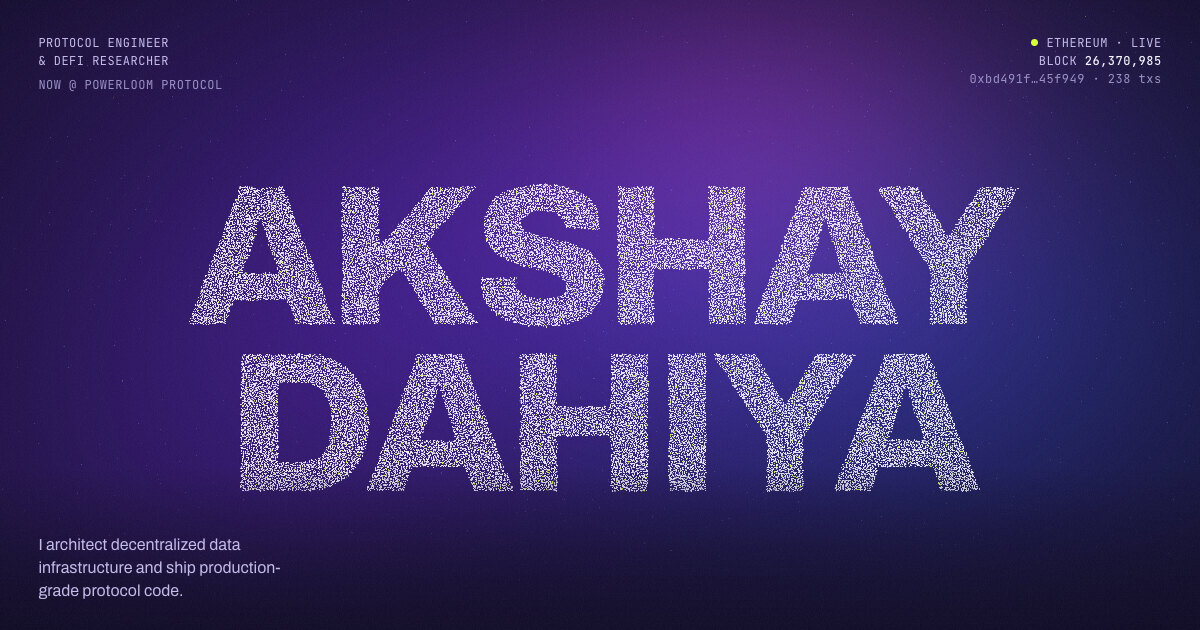
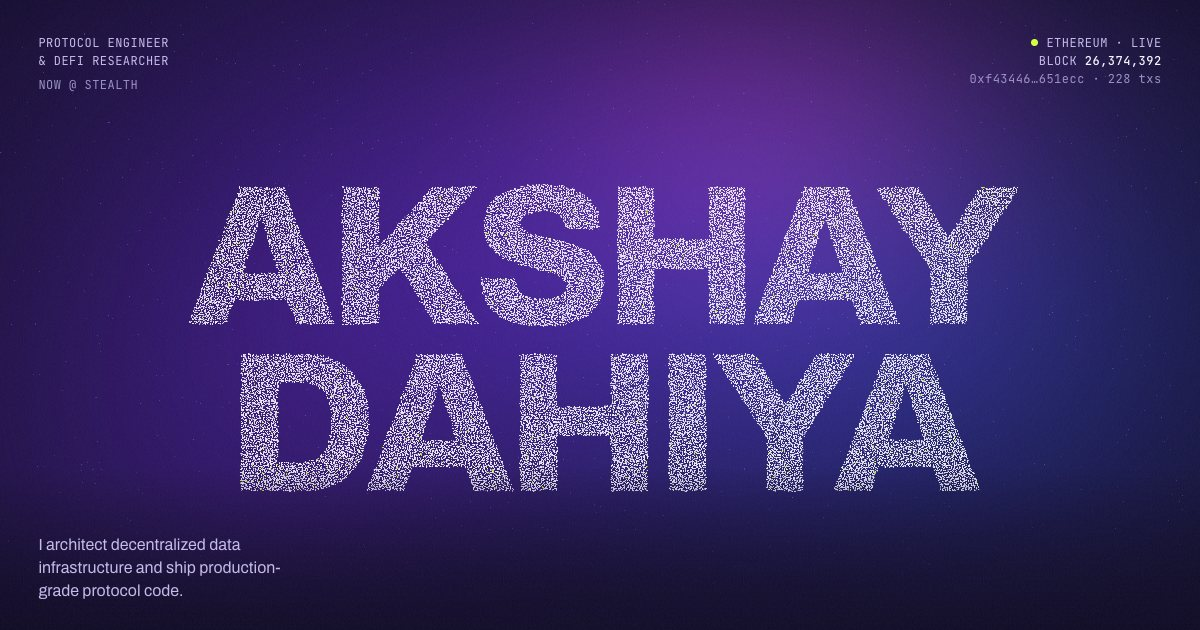
fix: show stealth as current role, simplify ribbon, uncrop previews
- Hero, timeline and share image now say "Now @ Stealth". Powerloom runs
  Dec 2022 to Jan 2026, and a new head block marks the stealth work
- Drop the lime ribbon after the stack section; one straight tape
  remains, evenly spaced between sections
- Writing hover previews size to each image's aspect ratio instead of
  cropping to 4:3, show true colours, sit beside the cursor and stay
  on screen
- Verify toast counts blocks instead of hard-coding 10/10

diff --git a/_includes/css/site.scss b/_includes/css/site.scss
@@ -395,9 +395,11 @@ html.gl .hero__name { visibility: hidden; }
 .block__toggle:hover { border-color: var(--fg); }
 .block.is-open .block__toggle { transform: rotate(135deg); border-color: var(--accent); color: var(--accent); }
 .block--genesis .block__title { font-family: var(--font-serif); font-style: italic; font-weight: 400; letter-spacing: -0.01em; cursor: default; }
+.block--now .block__title { cursor: default; }
+.block--now.is-lit .block__node::after { content: ""; position: absolute; inset: -5px; border: 1px solid var(--accent); animation: beat 2.4s var(--ease-out) infinite; }
 
 /* ---------- Stack ---------- */
-.stack { --cis: 2000px; }
+.stack { --cis: 2000px; padding-bottom: 0; }
 .caps { list-style: none; border-top: 1px solid var(--line); }
 .cap { position: relative; isolation: isolate; display: grid; grid-template-columns: 48px minmax(0, 5fr) minmax(0, 7fr); column-gap: var(--gutter); row-gap: 10px; align-items: baseline; padding: clamp(20px, 3vh, 30px) 0; border-bottom: 1px solid var(--line); }
 .cap::before { content: ""; position: absolute; inset: 0 calc(var(--gutter) * -1); z-index: -1; background: var(--surface); transform: scaleY(0); transform-origin: 50% 100%; transition: transform 0.6s var(--ease-out); }
@@ -409,16 +411,12 @@ html.gl .hero__name { visibility: hidden; }
 .cap__items { color: var(--fg-2); line-height: 1.75; overflow-wrap: anywhere; transition: color 0.4s; }
 .cap__items i { margin: 0 0.2em; font-style: normal; color: var(--fg-3); opacity: 0.7; }
 .cap:hover .cap__items { color: var(--fg); }
-.marquee { position: relative; display: grid; margin-top: clamp(100px, 16vh, 180px); padding-block: clamp(40px, 7vw, 110px); overflow: hidden; }
-.marquee__row { position: relative; width: 108%; margin-left: -4%; overflow: hidden; padding-block: clamp(8px, 1.4vw, 18px); }
-.marquee__row:first-child { z-index: 2; background: var(--accent); color: var(--accent-ink); transform: rotate(-2.4deg); box-shadow: 0 30px 70px -30px rgba(var(--accent-rgb), 0.55); }
-.marquee__row:last-child { z-index: 1; margin-top: clamp(-34px, -2.4vw, -12px); background: var(--surface-2); border-block: 1px solid var(--line-2); transform: rotate(1.8deg); }
+.marquee { position: relative; margin-top: clamp(100px, 16vh, 180px); overflow: hidden; background: var(--surface-2); border-block: 1px solid var(--line-2); }
+.marquee__row { position: relative; overflow: hidden; padding-block: clamp(10px, 1.6vw, 22px); }
 .marquee__track { display: inline-flex; align-items: center; white-space: nowrap; will-change: transform; }
 .marquee__item { padding: 0 0.3em; font-size: clamp(2rem, 5.8vw, 6rem); font-weight: 800; line-height: 1.02; letter-spacing: -0.045em; text-transform: uppercase; font-stretch: 112%; }
 .marquee__item--o { color: transparent; -webkit-text-stroke: 1px rgba(var(--ink-rgb), 0.45); }
-.marquee__row:first-child .marquee__item--o { -webkit-text-stroke: 1.5px rgba(18, 12, 48, 0.7); }
 .marquee__star { color: var(--accent); font-size: clamp(1rem, 2vw, 2rem); }
-.marquee__row:first-child .marquee__star { color: var(--accent-ink); }
 
 /* ---------- Proof ---------- */
 .proof { --cis: 1400px; }
@@ -482,18 +480,12 @@ html.gl .hero__name { visibility: hidden; }
   .posts:hover .post-row a:hover { color: var(--fg); padding-left: 14px; }
   .post-row a:hover .post-row__arrow svg { transform: rotate(45deg); color: var(--accent); }
 }
-.preview {
-  --pw: clamp(240px, 22vw, 340px);
-  position: fixed; top: 0; left: 0; z-index: 45; width: var(--pw); aspect-ratio: 4 / 3;
-  margin: calc(var(--pw) * -0.375) 0 0 calc(var(--pw) * -0.5);
-  opacity: 0; visibility: hidden; pointer-events: none;
-  transition: opacity 0.45s var(--ease-out), visibility 0s 0.45s, scale 0.6s var(--ease-out);
-  scale: 0.7;
-}
-.preview.is-on { opacity: 1; visibility: visible; scale: 1; transition: opacity 0.45s var(--ease-out), visibility 0s, scale 0.6s var(--ease-out); }
-.preview__inner { position: relative; width: 100%; height: 100%; overflow: hidden; border-radius: 8px; background: #f5f2ff; box-shadow: var(--shadow); }
-.preview__inner img { width: 100%; height: 100%; object-fit: cover; filter: grayscale(1) contrast(1.15); }
-.preview__inner::after { content: ""; position: absolute; inset: 0; background: var(--accent); mix-blend-mode: multiply; }
+/* JS positions the zero-size .preview at the card's centre and sizes the card to each image's aspect ratio. */
+.preview { position: fixed; top: 0; left: 0; z-index: 45; width: 0; height: 0; visibility: hidden; pointer-events: none; transition: visibility 0s 0.45s; }
+.preview.is-on { visibility: visible; transition: visibility 0s; }
+.preview__inner { position: absolute; top: 0; left: 0; width: 320px; height: 200px; translate: -50% -50%; overflow: hidden; border-radius: 10px; background: var(--surface); box-shadow: 0 0 0 1px var(--line-2), var(--shadow); opacity: 0; scale: 0.86; transition: opacity 0.4s var(--ease-out), scale 0.6s var(--ease-out); }
+.preview.is-on .preview__inner { opacity: 1; scale: 1; transition: opacity 0.4s var(--ease-out), scale 0.6s var(--ease-out), width 0.5s var(--ease-out), height 0.5s var(--ease-out); }
+.preview__inner img { display: block; width: 100%; height: 100%; object-fit: cover; }
 
 /* ---------- Shelf ---------- */
 .shelf { --k: 1.22; --cis: 1300px; }

diff --git a/index.html b/index.html
@@ -16,7 +16,6 @@ viz: true
   "alternateName": "xadahiya",
   "url": "https://xadahiya.me",
   "jobTitle": "Protocol Engineer & DeFi Researcher",
-  "worksFor": { "@type": "Organization", "name": "Powerloom Protocol" },
   "alumniOf": { "@type": "CollegeOrUniversity", "name": "Georgia Institute of Technology" },
   "email": "mailto:xadahiya@gmail.com",
   "sameAs": ["https://github.com/xadahiya", "https://twitter.com/xadahiya", "https://www.linkedin.com/in/xadahiya"]
@@ -30,7 +29,7 @@ viz: true
 
   <div class="hero__grid wrap">
     <h1 id="hero-title" class="sr-only">Akshay Dahiya — Protocol Engineer &amp; DeFi Researcher</h1>
-    <p class="hero__role mono"><span class="hero__in">Protocol Engineer</span><span class="hero__in">&amp; DeFi Researcher</span><span class="hero__in hero__now">Now <b>@</b> Powerloom Protocol</span></p>
+    <p class="hero__role mono"><span class="hero__in">Protocol Engineer</span><span class="hero__in">&amp; DeFi Researcher</span><span class="hero__in hero__now">Now <b>@</b> Stealth</span></p>
 
     <a class="hero__chain mono" href="https://etherscan.io/" target="_blank" rel="noopener" data-block-link data-cursor="Etherscan">
       <span class="hero__in"><span class="live-dot" data-live-dot></span><span data-block-status>Ethereum mainnet</span></span>
@@ -111,7 +110,7 @@ viz: true
       <article class="sys" style="--i:0">
         <div class="sys__card">
           <div class="sys__body">
-            <p class="sys__meta mono"><span class="sys__idx">01 / 06</span><span>Powerloom Protocol</span><span>2022 → Now</span></p>
+            <p class="sys__meta mono"><span class="sys__idx">01 / 06</span><span>Powerloom Protocol</span><span>2022 → 2026</span></p>
             <h3 class="sys__title">Decentralized data, <em>at consensus</em></h3>
             <p class="sys__lede">Co-designed the protocol's evolution from V0 → V1 → V2 → DSV: snapshotter nodes independently observe chain state, agree on it, and finalize verifiable data for onchain apps. I authored the Snapshotter Lite and Full node contracts and backend, designed $POWER tokenomics and dynamic-tax staking, and shipped mainnets for Powerloom and Onchain Points.</p>
             <dl class="sys__facts">
@@ -249,9 +248,22 @@ viz: true
     </header>
 
     <ol class="blocks" data-blocks>
-      <li class="block" data-block data-n="009" data-span="Dec 2022 — Now">
+      <li class="block block--now" data-block data-n="010" data-span="2026 — Now">
         <div class="block__rail" aria-hidden="true"><span class="block__node"></span></div>
-        <div class="block__when mono"><span class="block__num">#009</span><span>Dec 2022 — Now</span></div>
+        <div class="block__when mono"><span class="block__num">#010</span><span>2026 — Now</span></div>
+        <div class="block__what">
+          <h3 class="block__title">Building something new</h3>
+          <p class="block__org">Stealth startup</p>
+          <p class="block__gist">Heads down. More soon.</p>
+        </div>
+        <div class="block__side">
+          <p class="block__hash mono"><span>hash</span><code data-hash>…</code><span>prev</span><code data-prev>…</code></p>
+        </div>
+      </li>
+
+      <li class="block" data-block data-n="009" data-span="Dec 2022 — Jan 2026">
+        <div class="block__rail" aria-hidden="true"><span class="block__node"></span></div>
+        <div class="block__when mono"><span class="block__num">#009</span><span>Dec 2022 — Jan 2026</span></div>
         <div class="block__what">
           <h3 class="block__title">Lead Protocol Engineer &amp; DeFi Researcher</h3>
           <p class="block__org">Powerloom Protocol</p>
@@ -463,12 +475,8 @@ viz: true
 
   <div class="marquee" aria-hidden="true" data-marquee>
     <div class="marquee__row" data-dir="-1"><div class="marquee__track">
-      {% assign mq1 = "Solidity,EIP-712,Tokenomics,IPFS proofs,Consensus,Rust,Foundry,Sequencers,Agentic AI,Staking" | split: "," %}
-      {% for k in (1..2) %}{% for w in mq1 %}<span class="marquee__item{% cycle '', ' marquee__item--o' %}">{{ w }}</span><span class="marquee__star">✦</span>{% endfor %}{% endfor %}
-    </div></div>
-    <div class="marquee__row" data-dir="1"><div class="marquee__track">
-      {% assign mq2 = "Python,Web3.py,Gasless,Snapshotters,PyTorch,Upgradeable proxies,Game theory,Redis,Sybil resistance,Airdrops" | split: "," %}
-      {% for k in (1..2) %}{% for w in mq2 %}<span class="marquee__item{% cycle ' marquee__item--o', '' %}">{{ w }}</span><span class="marquee__star">✦</span>{% endfor %}{% endfor %}
+      {% assign mq = "Solidity,EIP-712,Tokenomics,Rust,Consensus,Foundry,Python,IPFS proofs,Snapshotters,Gasless,Sequencers,Sybil resistance,Agentic AI,Game theory" | split: "," %}
+      {% for k in (1..2) %}{% for w in mq %}<span class="marquee__item{% cycle '', ' marquee__item--o' %}">{{ w }}</span><span class="marquee__star">✦</span>{% endfor %}{% endfor %}
     </div></div>
   </div>
 </section>

diff --git a/assets/js/site.js b/assets/js/site.js
@@ -621,7 +621,7 @@
         if (i >= chain.length) {
           label.textContent = ok ? 'Chain valid ✓' : 'Mismatch ✗';
           vb.classList.add('is-done');
-          toast(ok ? '10/10 blocks verified — SHA-256 chain intact' : 'Hash mismatch detected');
+          toast(ok ? chain.length + '/' + chain.length + ' blocks verified — SHA-256 chain intact' : 'Hash mismatch detected');
           setTimeout(function () { vb.disabled = false; }, 800);
           return;
         }
@@ -753,9 +753,33 @@
   function initPreview() {
     var list = $('[data-posts]'), pv = $('[data-preview-el]');
     if (!list || !pv || !fine || reduced) return;
-    var img = $('[data-preview-img]', pv), links = $$('a[data-preview]', list);
-    whenNear(list, function () { links.forEach(function (a) { if (a.dataset.preview) { var im = new Image(); im.src = a.dataset.preview; } }); }, '100% 0px');
-    var st = { x: 0, y: 0, tx: 0, ty: 0, r: 0, tr: 0, run: false, lastX: 0 };
+    var card = $('.preview__inner', pv), img = $('[data-preview-img]', pv), links = $$('a[data-preview]', list), cur = null;
+    // Preload thumbnails and remember each one's shape, so the card matches the image instead of cropping it.
+    whenNear(list, function () {
+      links.forEach(function (a) {
+        if (!a.dataset.preview) return;
+        var im = new Image();
+        im.onload = function () { a._ar = im.naturalWidth / im.naturalHeight; };
+        im.onerror = function () { a._bad = true; };
+        im.src = a.dataset.preview;
+      });
+    }, '100% 0px');
+    var st = { x: 0, y: 0, tx: 0, ty: 0, r: 0, tr: 0, run: false, lastX: 0, mx: 0, my: 0, w: 0, h: 0, side: 1 };
+    var size = function (ar) {
+      var max = clamp(window.innerWidth * 0.24, 260, 380);
+      ar = ar || 1.6;
+      st.w = Math.min(max, max * 0.72 * ar); st.h = st.w / ar;
+      card.style.width = st.w.toFixed(1) + 'px'; card.style.height = st.h.toFixed(1) + 'px';
+    };
+    // Park the card beside the cursor so the title stays readable; flip sides near an edge and stay on screen.
+    var place = function (fresh) {
+      var vw = window.innerWidth, vh = window.innerHeight, room = st.w + 44;
+      if (fresh) st.side = st.mx + room <= vw ? 1 : -1;
+      else if (st.side > 0 && st.mx + room > vw) st.side = -1;
+      else if (st.side < 0 && st.mx - room < 0) st.side = 1;
+      st.tx = st.mx + st.side * (28 + st.w / 2);
+      st.ty = clamp(st.my, 16 + st.h / 2, vh - 16 - st.h / 2);
+    };
     onTick(function (t, dt) {
       if (!st.run) return;
       var k = 1 - Math.pow(0.0009, dt);
@@ -764,18 +788,28 @@
       if (!pv.classList.contains('is-on') && Math.abs(st.tx - st.x) < 0.5 && Math.abs(st.r) < 0.05) st.run = false;
     });
     list.addEventListener('pointermove', function (e) {
-      st.tx = e.clientX; st.ty = e.clientY; st.tr = clamp((e.clientX - st.lastX) * 0.5, -9, 9); st.lastX = e.clientX; st.run = true;
+      st.mx = e.clientX; st.my = e.clientY; place(false);
+      st.tr = clamp((e.clientX - st.lastX) * 0.5, -9, 9); st.lastX = e.clientX; st.run = true;
     });
+    img.addEventListener('load', function () {
+      if (!cur || cur._ar) return;
+      cur._ar = img.naturalWidth / img.naturalHeight; size(cur._ar); place(false);
+    });
+    img.addEventListener('error', function () { if (cur) cur._bad = true; pv.classList.remove('is-on'); });
     links.forEach(function (a) {
       a.addEventListener('pointerenter', function (e) {
         var src = a.dataset.preview;
-        if (!src) return;
+        if (!src || a._bad) { cur = null; pv.classList.remove('is-on'); return; }
+        var fresh = !pv.classList.contains('is-on');
+        cur = a;
         if (img.getAttribute('src') !== src) img.src = src;
-        if (!pv.classList.contains('is-on')) { st.x = st.tx = e.clientX; st.y = st.ty = e.clientY; st.lastX = e.clientX; }
+        size(a._ar);
+        st.mx = e.clientX; st.my = e.clientY; place(fresh);
+        if (fresh) { st.x = st.tx; st.y = st.ty; st.r = st.tr = 0; st.lastX = e.clientX; void card.offsetWidth; }
         pv.classList.add('is-on'); st.run = true;
       });
     });
-    list.addEventListener('pointerleave', function () { pv.classList.remove('is-on'); });
+    list.addEventListener('pointerleave', function () { cur = null; pv.classList.remove('is-on'); });
   }
 
   /* ---------- shelf ---------- */
